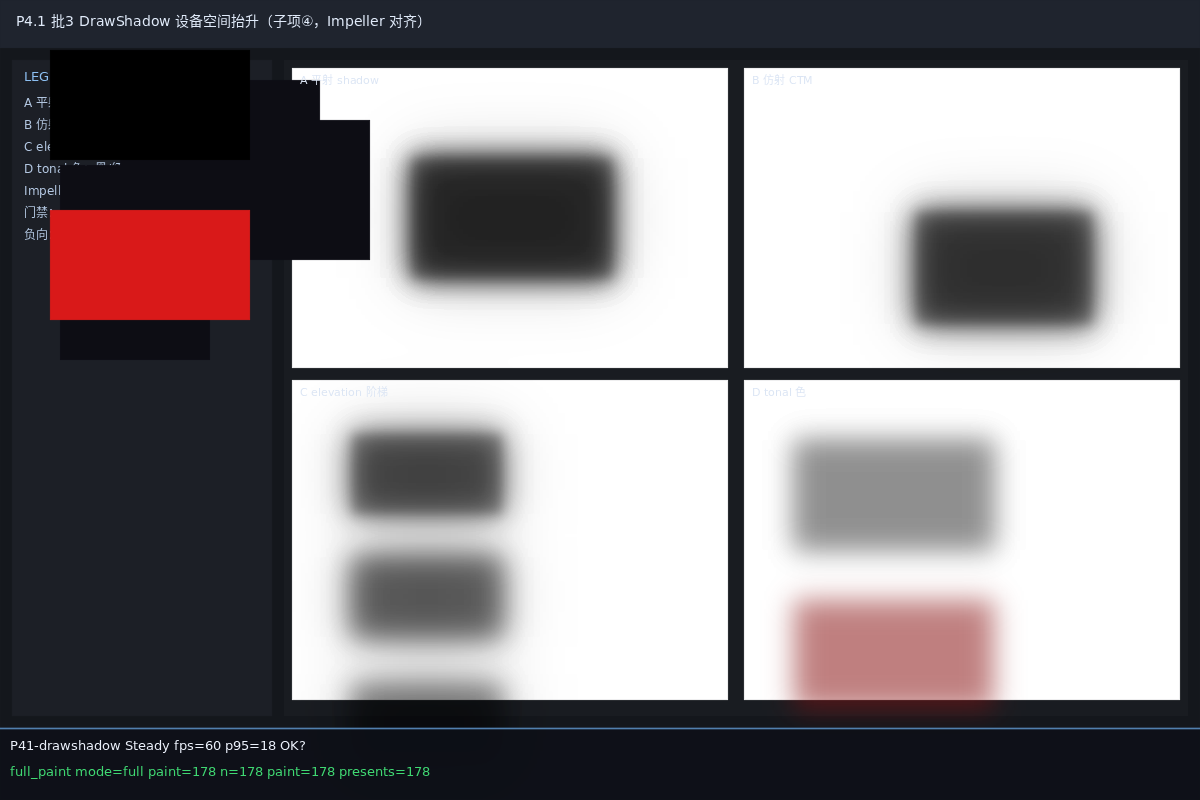
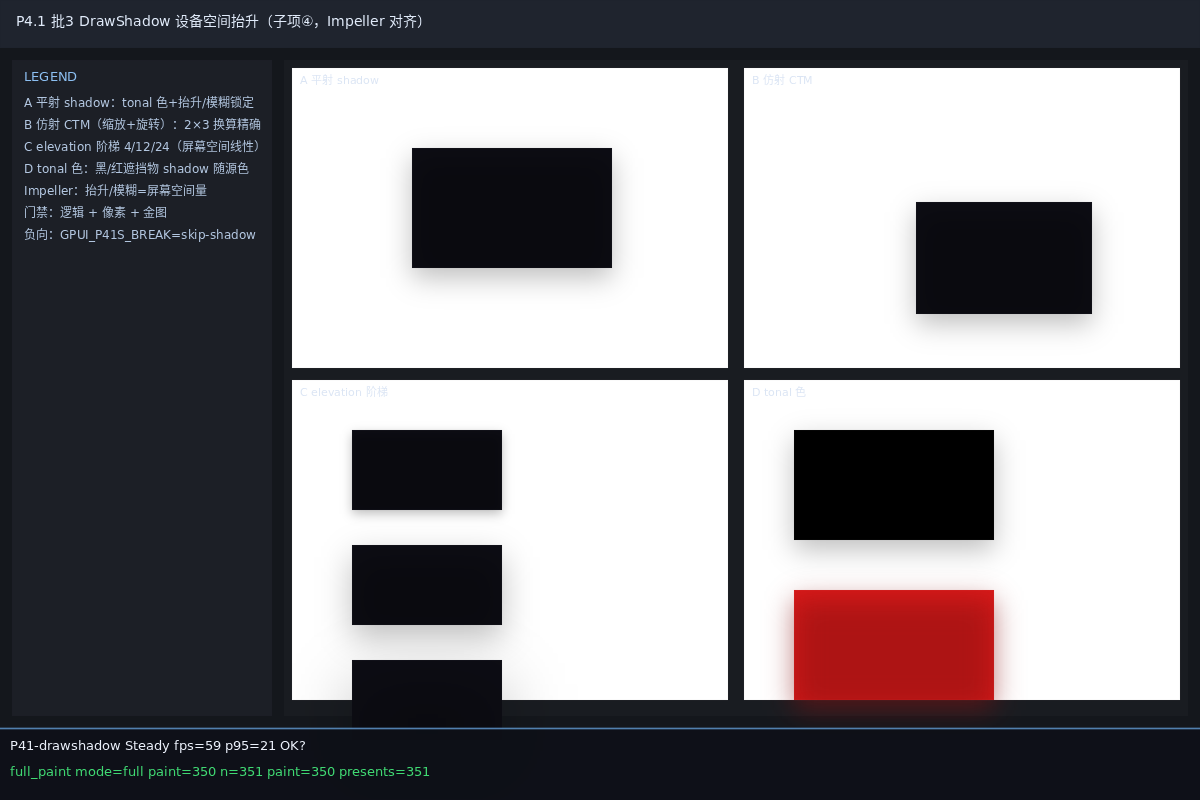
SDF 覆盖线补漏：p41_drawshadow 漏扫窗重种（native+go）+ 扫描口径补记
- 发现：M5 P2 回归跑 ui_wr_p41_drawshadow 得 golden=3.2402%。A/B 钉死归属——
  d6cdb2b2（SDF LUT 之前）worktree 0.0000%，HEAD（0ad8bad1）worktree 3.2402%，
  P2 工作树同为 3.2402% ⇒ 差异来自 SDF 覆盖 LUT，不是 P2。
- 形态：旧/新快照逐像素 32018 px、max 200（形状/阴影边缘带）；平坦区（7×7 变化≤2）
  只有 1 级差 2423 px，全部在窗口最外列 254→255 与阴影缓变带，无内容位移。
- 处置：按 SDF 线同一口径重种 native+go（旧图归档 evidence/SDF/golden-reseed/），
  复验双后端 0.0000%（logic 2/2）。
- 教训入 coverage-line.md：SDF 触及窗扫描不能只 grep DrawCircle/DrawRRect——
  经 DetectShape 路径检测进 SDF 的图形（如 DrawShadow 的圆角卡片）同样命中。

diff --git a/docs/render_gpu_converge/evidence/SDF/coverage-line.md b/docs/render_gpu_converge/evidence/SDF/coverage-line.md
@@ -136,11 +136,16 @@
 | ui_render_base_imagepattern | 0.0000% | 1.3844% | **重种**，复验 0.0000%（logic 18/18、pixel 25/25） |
 | ui_render_base_svg | 0.0000% | 0.2915% | **重种**，复验 0.0000%（SVG 烘焙恒 CPU 本身未变，差在卡片圆角边；该窗 screen-check 环境红既有） |
 | ui_wr_p35_rrect4 | 2.9210%（旧金图 vs 新 LUT） | 重种后 0.0000% | 已在上表 |
+| ui_wr_p41_drawshadow | 0.0000%（d6cdb2b2 worktree 实测） | 3.2402% | **重种**（2026-11-11 M5 P2 回归发现；native+go 复验 0.0000%） |
 | ui_render_base_recording | 2.5893% | 4.2275% | **不重种**：金图在旧 shader 下也已过期（既有红），另立 |
 | ui_wr_ime_r1_editor | 0.0847% | 2.7563% | **不重种**：同上（旧 shader 已 0.0847% 既有漂移） |
 | ui_render_base_sweepgradient | 24.1642% + logic 8/14 红 | 25.2975% | **不重种**：既有红（logic 与 SDF 无关） |
 | engine/anim --case=fsm | 73.6752% | 73.6747% | **不重种**：既有红（动画相位/窗口金图过期，与 SDF 无关） |
 | ui_base_multiwin_cap | 未跑 | 未跑 | 8 窗批量，按 GPU 安全纪律须隔离显示；本批不跑，登记待复验 |
+
+> **扫描口径补记（2026-11-11，M5 P2 回归）**：只 grep DrawCircle/DrawRRect/DrawOval/DrawEllipse 会漏窗——
+> 经 `DetectShape` 路径检测进 SDF 的图形同样受影响（`ui_wr_p41_drawshadow` 的圆角卡片+投影即此类）。
+> 后续 SDF/覆盖改动按「形状检测入口」扫窗，不只看调用名。
 
 **无内部回归证据**（逐像素，不用 mean）：对每个重种窗做旧/新快照差分，统计「7×7 邻域变化 ≤2」
 的平坦区差像素——pathshape/pathlow/imagepattern/ant 内区 **0 枚**；p34 内区 36 枚、max **1**
